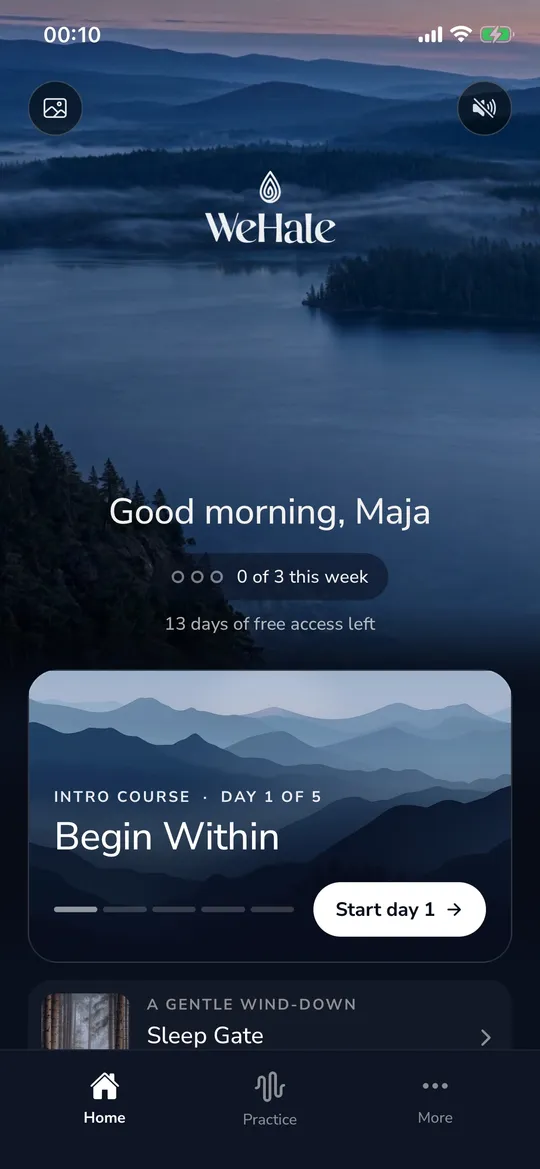
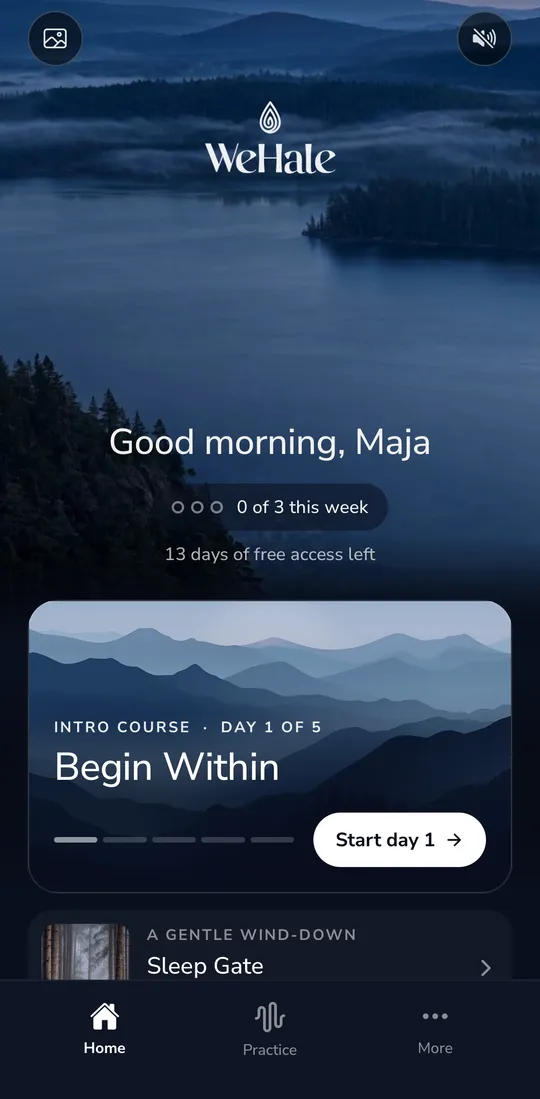
v5: one set of session names (the app's), a guides block on home, company facts in the footer, the offer above the consent bar on /breathe, a slim desktop consent bar

diff --git a/src/styles/breathe.css b/src/styles/breathe.css
@@ -388,7 +388,7 @@ body.f-own.f-edge .tile[aria-checked="true"] { border-color: #ffb46b; box-shadow
 body[data-v^="g"] #startScr { justify-content: space-between; background: linear-gradient(to top, rgba(6, 4, 3, .7) 0%, rgba(6, 4, 3, 0) 26%);
   padding: calc(env(safe-area-inset-top, 0px) + 72px) 16px calc(env(safe-area-inset-bottom, 0px) + 18px);
   touch-action: none; overscroll-behavior: none; -webkit-user-select: none; user-select: none; -webkit-touch-callout: none; }
-body[data-v^="g"] #brand { opacity: .45; }
+body[data-v^="g"] #brand { opacity: .72; }
 body[data-v^="g"] .ylede h1 { font: 500 29px/1.2 var(--font) !important; letter-spacing: -.01em; margin: 0 auto 8px !important; max-width: 330px; }
 body[data-v^="g"] .ysub { font: 500 15px/1.3 var(--font) !important; color: rgba(242, 240, 237, .86) !important; letter-spacing: .01em; text-shadow: 0 0 3px rgba(6, 4, 3, .9), 0 0 14px rgba(6, 4, 3, .8); }
 body[data-v^="g"] .ylede h1 { text-shadow: 0 0 3px rgba(6, 4, 3, .8), 0 0 18px rgba(6, 4, 3, .6); }
@@ -457,8 +457,8 @@ body.g-going .goffer { opacity: 0 !important; transition: opacity .45s ease; }
 body.g-edge #silk, body.g-edge #stage { filter: contrast(1.18) saturate(1.25); }
 /* the consent bar (phones, about 84 px) never covers Begin: the start screen's actions lift above it, the offer line steps aside */
 @media (max-width: 767px) {
-  body[data-v^="g"].whc-on #startScr { padding-bottom: calc(env(safe-area-inset-bottom, 0px) + 92px); }
-  body.whc-on .goffer { display: none; }
+  body[data-v^="g"].whc-on #startScr { padding-bottom: calc(env(safe-area-inset-bottom, 0px) + 90px); }
+  body[data-v^="g"].whc-on .glink { margin-top: 0; }
 }
 body[data-v^="g"] .ysub { white-space: pre-line; }
 /* g, arriving from an ad: the ad chose the session, so the arrows step aside (swipe and the dots stay) */
@@ -466,3 +466,5 @@ body.g-hooked .gstep { visibility: hidden; }
 body.g-hooked .gdots { opacity: .7; }
 /* the challenger's room runs hotter than the foggy one's: redder fire, more contrast */
 body.g-edge #silk, body.g-edge #stage { filter: contrast(1.28) saturate(1.45) hue-rotate(-12deg) !important; }
+body[data-v^="g"] .ylede h1 { text-wrap: balance; max-width: 352px !important; }
+@media (min-width: 768px) { body.whc-on { padding-bottom: 0; } body[data-v^="g"].whc-on #startScr { padding-bottom: 96px; } }

diff --git a/src/components/site/links.ts b/src/components/site/links.ts
@@ -9,4 +9,4 @@ export const PLAY_URL = "https://play.google.com/store/apps/details?id=com.wehal
 export const SITE_PID = "website";
 export const SITE_CAMPAIGN = "site";
 /** The offer, exactly the app's (proposed line, pending Isak). No discount, no price. */
-export const OFFER_LINE = "Your first 14 days are free, with everything open. No card needed.";
+export const OFFER_LINE = "Your first 14 days are free, with everything open. No\u00a0card\u00a0needed.";
